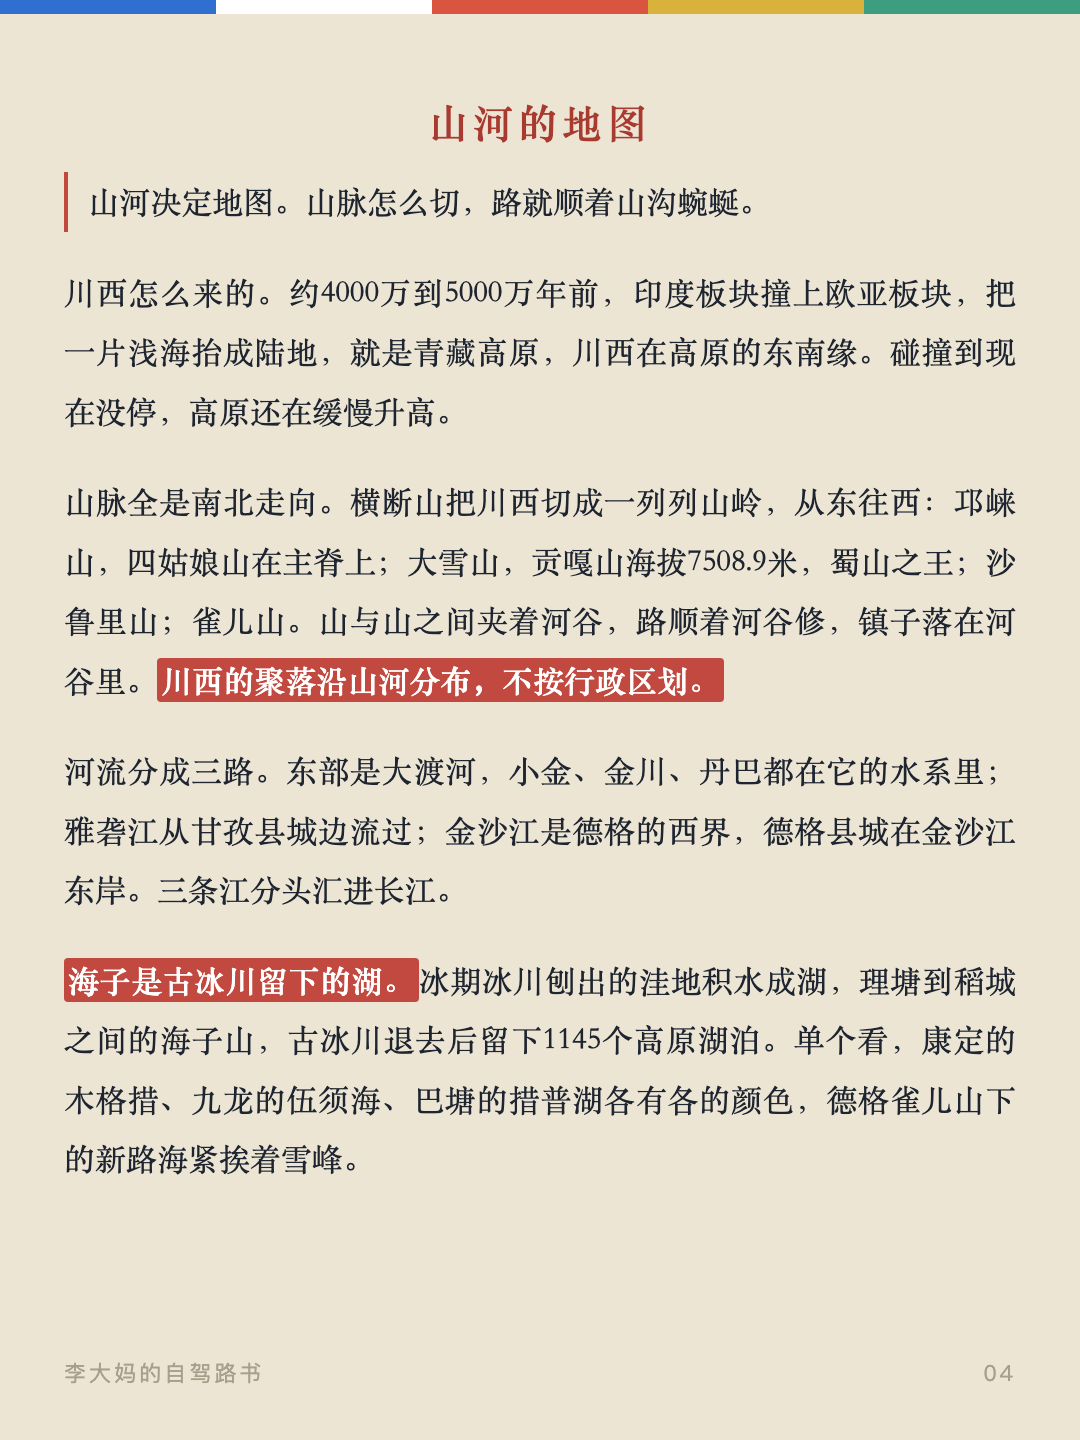
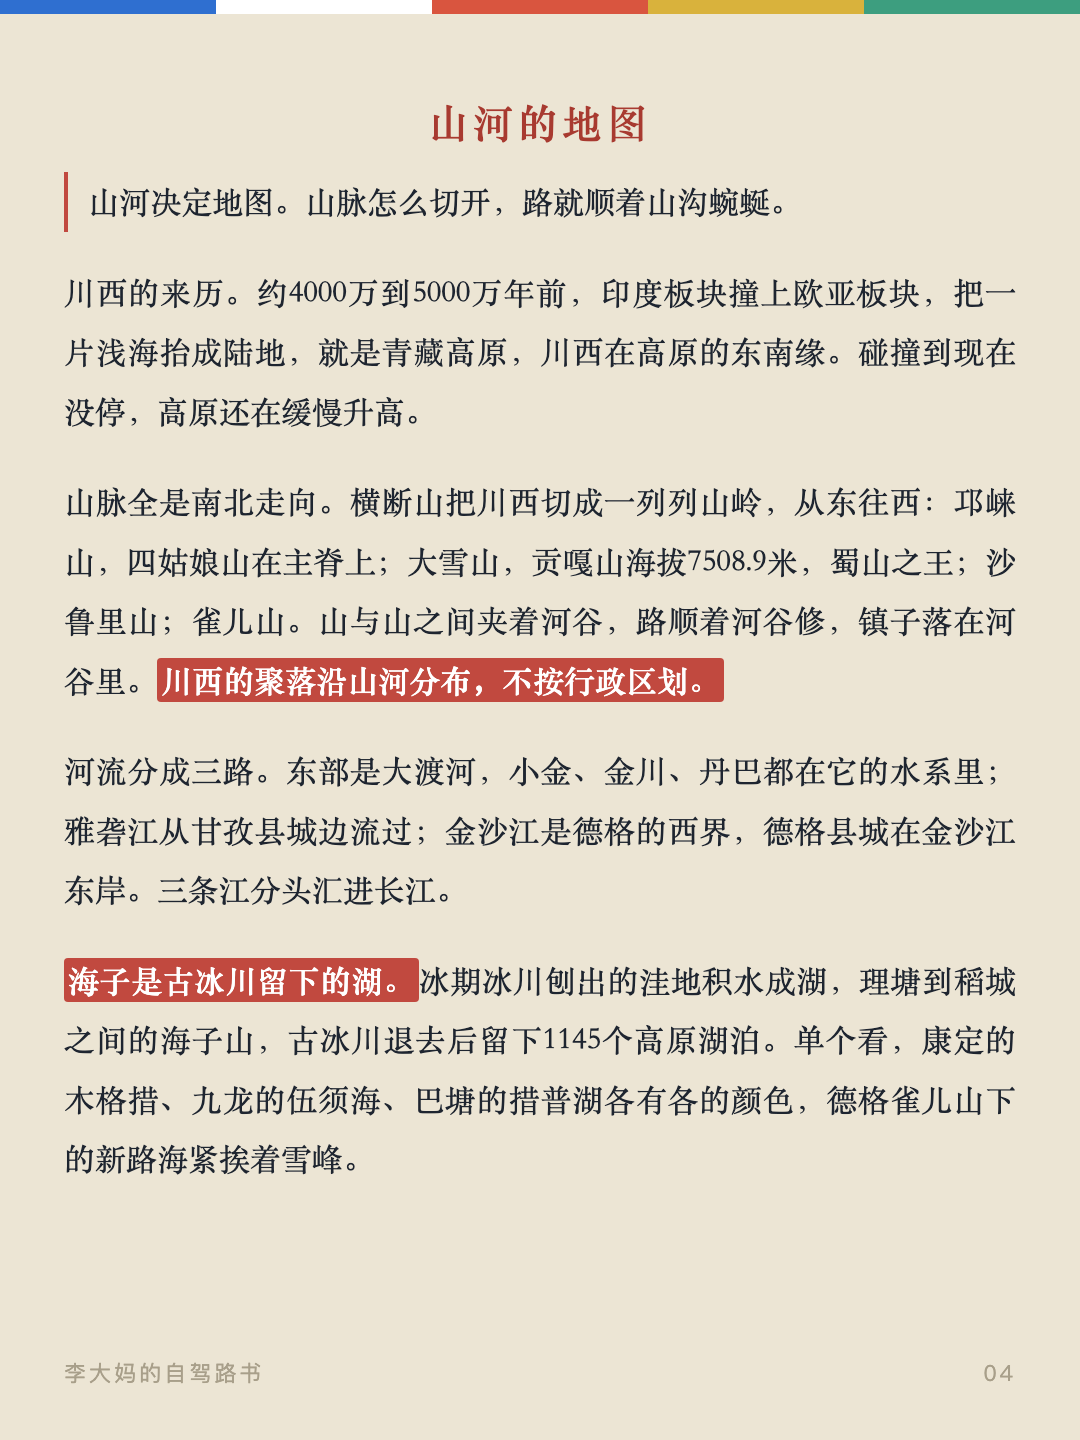
山河lead切字双字化；川西怎么来的改来历；海拔句改有所了解

Changed region(s): [[0.0611, 0.1875, 0.9472, 0.3125], [0.4278, 0.125, 0.7333, 0.1562]]

diff --git a/cards.html b/cards.html
@@ -127,9 +127,9 @@
 
 <div class="card" id="card2"><div class="flag" aria-hidden="true"><span style="background:var(--flag-blue)"></span><span style="background:var(--flag-white)"></span><span style="background:var(--flag-red)"></span><span style="background:var(--flag-yellow)"></span><span style="background:var(--flag-green)"></span></div><div class="card__inner"><h3>与人相处</h3><p><strong>牧民。</strong> 牛羊是牧民的主要家当。拍牧民和牲畜，先打招呼再举相机。牧场的帐篷和围栏，不随便进去。</p><p><strong>匠人。</strong> 进工坊先问能不能看，问手艺、问工序，匠人愿意聊就聊。工具和材料不上手碰。买现货，半成品和机压仿品不碰。</p><p><strong>僧侣。</strong> 称呼用“师父”或“上师”。进大殿脱帽、轻声、顺时针走，不拍照、不指佛像。法会时安静看，不打断、不围观起哄。</p><p><strong>司机和本地人。</strong> 见面一句“扎西德勒”，气氛就开了。问路、问价，态度客气，多数人都愿意答。本地人大多直接，不绕弯。</p><p><strong>买东西。</strong> 讲好价就照付，不反复缠价。看上了再还价，压完不买<span class="nowrap">最伤和气。</span></p><p><strong>拍照。</strong> 拍人先问，拍寺院内部和法会先看有没有禁令。相机镜头对着人的时候，先问一句，多数人会同意的。</p><div class="card__foot"><span>李大妈的自驾路书</span><span>02</span></div></div></div>
 
-<div class="card" id="card3"><div class="flag" aria-hidden="true"><span style="background:var(--flag-blue)"></span><span style="background:var(--flag-white)"></span><span style="background:var(--flag-red)"></span><span style="background:var(--flag-yellow)"></span><span style="background:var(--flag-green)"></span></div><div class="card__inner"><h2>高原的秩序</h2><p class="card__lead">海拔决定秩序。</p><p>进川西先对海拔有数。<strong>3000米是一道门槛</strong>，多数人的高反从这里开始。行程按海拔安排，不按景点安排：一天的路程控制在两三小时山路，下午留出空当看天，天气不对就提前收车。景点不会消失，路况和天气才是当天的变量。</p><p>窗口期。<strong>5到6月、9到10月中是全年最好走的时段</strong>。雨季6到8月以夜雨为主，白天多数能通行。冬季也能走，但救援半径长，一台车陷在无人垭口，代价远超省下的时间。</p><p>防高反。从低到高慢慢爬，头两天不在3500米以上过夜。典型信号是头痛、睡不着、没胃口，多数人两三天能适应。乙酰唑胺遵医嘱提前服用；头痛影响休息时，饭后服用布洛芬，多喝水。红景天不能降低高反发生率，只缓解症状。高原低血糖常见，头晕乏力冲杯糖水就能缓解。高原上血氧比平原低是常态，<strong>血氧掉到85%以下、人也不舒服的话，就往下撤</strong>，按需就医。</p><p>补给认准县城。<strong>进县城加满油</strong>，一离开县城就默认补给消失，当天去就得当天回，不在荒野过夜。离线地图出发前下好，<strong>自救物资备足</strong>。冬季自驾，车上常备防滑链。</p><div class="card__foot"><span>李大妈的自驾路书</span><span>03</span></div></div></div>
+<div class="card" id="card3"><div class="flag" aria-hidden="true"><span style="background:var(--flag-blue)"></span><span style="background:var(--flag-white)"></span><span style="background:var(--flag-red)"></span><span style="background:var(--flag-yellow)"></span><span style="background:var(--flag-green)"></span></div><div class="card__inner"><h2>高原的秩序</h2><p class="card__lead">海拔决定秩序。</p><p>进川西之前，需要先对海拔常识有所了解。<strong>3000米是一道门槛</strong>，多数人的高反从这里开始。行程按海拔安排，不按景点安排：一天的路程控制在两三小时山路，下午留出空当看天，天气不对就提前收车。景点不会消失，路况和天气才是当天的变量。</p><p>窗口期。<strong>5到6月、9到10月中是全年最好走的时段</strong>。雨季6到8月以夜雨为主，白天多数能通行。冬季也能走，但救援半径长，一台车陷在无人垭口，代价远超省下的时间。</p><p>防高反。从低到高慢慢爬，头两天不在3500米以上过夜。典型信号是头痛、睡不着、没胃口，多数人两三天能适应。乙酰唑胺遵医嘱提前服用；头痛影响休息时，饭后服用布洛芬，多喝水。红景天不能降低高反发生率，只缓解症状。高原低血糖常见，头晕乏力冲杯糖水就能缓解。高原上血氧比平原低是常态，<strong>血氧掉到85%以下、人也不舒服的话，就往下撤</strong>，按需就医。</p><p>补给认准县城。<strong>进县城加满油</strong>，一离开县城就默认补给消失，当天去就得当天回，不在荒野过夜。离线地图出发前下好，<strong>自救物资备足</strong>。冬季自驾，车上常备防滑链。</p><div class="card__foot"><span>李大妈的自驾路书</span><span>03</span></div></div></div>
 
-<div class="card" id="card4"><div class="flag" aria-hidden="true"><span style="background:var(--flag-blue)"></span><span style="background:var(--flag-white)"></span><span style="background:var(--flag-red)"></span><span style="background:var(--flag-yellow)"></span><span style="background:var(--flag-green)"></span></div><div class="card__inner"><h2>山河的地图</h2><p class="card__lead">山河决定地图。山脉怎么切，路就顺着山沟蜿蜒。</p><p>川西怎么来的。约4000万到5000万年前，印度板块撞上欧亚板块，把一片浅海抬成陆地，就是青藏高原，川西在高原的东南缘。碰撞到现在没停，高原还在缓慢升高。</p><p>山脉全是南北走向。横断山把川西切成一列列山岭，从东往西：邛崃山，四姑娘山在主脊上；大雪山，贡嘎山海拔7508.9米，蜀山之王；沙鲁里山；雀儿山。山与山之间夹着河谷，路顺着河谷修，镇子落在河谷里。<strong>川西的聚落沿山河分布，不按行政区划。</strong></p><p>河流分成三路。东部是大渡河，小金、金川、丹巴都在它的水系里；雅砻江从甘孜县城边流过；金沙江是德格的西界，德格县城在金沙江东岸。三条江分头汇进长江。</p><p><strong>海子是古冰川留下的湖。</strong>冰期冰川刨出的洼地积水成湖，理塘到稻城之间的海子山，古冰川退去后留下1145个高原湖泊。单个看，康定的木格措、九龙的伍须海、巴塘的措普湖各有各的颜色，德格雀儿山下的新路海紧挨着雪峰。</p><div class="card__foot"><span>李大妈的自驾路书</span><span>04</span></div></div></div>
+<div class="card" id="card4"><div class="flag" aria-hidden="true"><span style="background:var(--flag-blue)"></span><span style="background:var(--flag-white)"></span><span style="background:var(--flag-red)"></span><span style="background:var(--flag-yellow)"></span><span style="background:var(--flag-green)"></span></div><div class="card__inner"><h2>山河的地图</h2><p class="card__lead">山河决定地图。山脉怎么切开，路就顺着山沟蜿蜒。</p><p>川西的来历。约4000万到5000万年前，印度板块撞上欧亚板块，把一片浅海抬成陆地，就是青藏高原，川西在高原的东南缘。碰撞到现在没停，高原还在缓慢升高。</p><p>山脉全是南北走向。横断山把川西切成一列列山岭，从东往西：邛崃山，四姑娘山在主脊上；大雪山，贡嘎山海拔7508.9米，蜀山之王；沙鲁里山；雀儿山。山与山之间夹着河谷，路顺着河谷修，镇子落在河谷里。<strong>川西的聚落沿山河分布，不按行政区划。</strong></p><p>河流分成三路。东部是大渡河，小金、金川、丹巴都在它的水系里；雅砻江从甘孜县城边流过；金沙江是德格的西界，德格县城在金沙江东岸。三条江分头汇进长江。</p><p><strong>海子是古冰川留下的湖。</strong>冰期冰川刨出的洼地积水成湖，理塘到稻城之间的海子山，古冰川退去后留下1145个高原湖泊。单个看，康定的木格措、九龙的伍须海、巴塘的措普湖各有各的颜色，德格雀儿山下的新路海紧挨着雪峰。</p><div class="card__foot"><span>李大妈的自驾路书</span><span>04</span></div></div></div>
 
 <div class="card" id="card5"><div class="flag" aria-hidden="true"><span style="background:var(--flag-blue)"></span><span style="background:var(--flag-white)"></span><span style="background:var(--flag-red)"></span><span style="background:var(--flag-yellow)"></span><span style="background:var(--flag-green)"></span></div><div class="card__inner"><p>川西地震多，因为它在鲜水河断裂带上。这条断裂带从中部纵贯，历史上强震不断。对旅行者，最实在的是<strong>路况随时可能因塌方管制</strong>；很多陡崖和河谷的走向，就是断裂带运动的痕迹。</p><p>植被随海拔分层，从山谷到垭口一路变化。2500米以下是针阔混交林；2500到3500米是云杉冷杉的针叶林，高山杜鹃夹在林里；3500到4500米是高山灌丛和高山草甸，冬虫夏草、雪茶都长在这一层；4500米以上是流石滩，雪莲贴着碎石长。<strong>同一条路翻几座山，一天就能跨过四个<span class="nowrap">植被带</span>，换到别处得开几千公里。</strong></p><p>吃的东西也按海拔分布。青稞是高原的当家作物，炒熟磨成糌粑，拌上酥油茶捏成团，是藏人的日常主食；酥油茶用砖茶和酥油熬，热量高、解渴御寒，当地有<strong>“宁可三日无肉，不可一日无茶”</strong>的说法。牦牛在海拔3500米以上放养，肉干、火锅、炖汤都常见；血肠是待客的上等菜，牛血或羊血和肉丁灌进小肠煮熟。松茸这类菌子长在森林里，集中在金沙江、雅砻江、大渡河上中游的高山峡谷，夏秋雨后出得多，炖鸡、涮锅都常吃。这些不用刻意找，路边饭馆的菜单上就有。</p><div class="card__foot"><span>李大妈的自驾路书</span><span>05</span></div></div></div>
 

diff --git a/index.html b/index.html
@@ -223,7 +223,7 @@
     <section class="part" id="order">
       <div class="part__head"><span class="part__no" aria-hidden="true">一</span><h2>高原的秩序</h2></div>
       <p class="part__lead">海拔决定秩序。</p>
-      <p>进川西先对海拔有数。<strong>3000米是一道门槛</strong>，多数人的高反从这里开始。行程按海拔安排，不按景点安排：一天的路程控制在两三小时山路，下午留出空当看天，天气不对就提前收车。景点不会消失，路况和天气才是当天的变量。</p>
+      <p>进川西之前，需要先对海拔常识有所了解。<strong>3000米是一道门槛</strong>，多数人的高反从这里开始。行程按海拔安排，不按景点安排：一天的路程控制在两三小时山路，下午留出空当看天，天气不对就提前收车。景点不会消失，路况和天气才是当天的变量。</p>
       <p>窗口期。<strong>5到6月、9到10月中是全年最好走的时段</strong>。雨季6到8月以夜雨为主，白天多数能通行。冬季也能走，但救援半径长，一台车陷在无人垭口，代价远超省下的时间。</p>
       <p>防高反。从低到高慢慢爬，头两天不在3500米以上过夜。典型信号是头痛、睡不着、没胃口，多数人两三天能适应。乙酰唑胺遵医嘱提前服用；头痛影响休息时，饭后服用布洛芬，多喝水。红景天不能降低高反发生率，只缓解症状。高原低血糖常见，头晕乏力冲杯糖水就能缓解。高原上血氧比平原低是常态，<strong>血氧掉到85%以下、人也不舒服的话，就往下撤</strong>，按需就医。</p>
       <p>补给认准县城。<strong>进县城加满油</strong>，一离开县城就默认补给消失，当天去就得当天回，不在荒野过夜。离线地图出发前下好，<strong>自救物资备足</strong>。冬季自驾，车上常备防滑链。</p>
@@ -232,8 +232,8 @@
     <!-- 二、山河的地图 -->
     <section class="part" id="terrain">
       <div class="part__head"><span class="part__no" aria-hidden="true">二</span><h2>山河的地图</h2></div>
-      <p class="part__lead">山河决定地图。山脉怎么切，路就顺着山沟蜿蜒。</p>
-      <p>川西怎么来的。约4000万到5000万年前，印度板块撞上欧亚板块，把一片浅海抬成陆地，就是青藏高原，川西在高原的东南缘。碰撞到现在没停，高原还在缓慢升高。</p>
+      <p class="part__lead">山河决定地图。山脉怎么切开，路就顺着山沟蜿蜒。</p>
+      <p>川西的来历。约4000万到5000万年前，印度板块撞上欧亚板块，把一片浅海抬成陆地，就是青藏高原，川西在高原的东南缘。碰撞到现在没停，高原还在缓慢升高。</p>
       <p>山脉全是南北走向。横断山把川西切成一列列山岭，从东往西：邛崃山，四姑娘山在主脊上；大雪山，贡嘎山海拔7508.9米，蜀山之王；沙鲁里山；雀儿山。山与山之间夹着河谷，路顺着河谷修，镇子落在河谷里。<strong>川西的聚落沿山河分布，不按行政区划。</strong></p>
       <p>河流分成三路。东部是大渡河，小金、金川、丹巴都在它的水系里；雅砻江从甘孜县城边流过；金沙江是德格的西界，德格县城在金沙江东岸。三条江分头汇进长江。</p>
       <p><strong>海子是古冰川留下的湖。</strong>冰期冰川刨出的洼地积水成湖，理塘到稻城之间的海子山，古冰川退去后留下1145个高原湖泊。单个看，康定的木格措、九龙的伍须海、巴塘的措普湖各有各的颜色，德格雀儿山下的新路海紧挨着雪峰。</p>

diff --git a/gen_cards.py b/gen_cards.py
@@ -34,13 +34,13 @@ BODY_STREAM = [
   ('p', '<strong>拍照。</strong> 拍人先问，拍寺院内部和法会先看有没有禁令。相机镜头对着人的时候，先问一句，多数人会同意的。'),
   ('h2', '高原的秩序'),
   ('lead', '海拔决定秩序。'),
-  ('p', '进川西先对海拔有数。<strong>3000米是一道门槛</strong>，多数人的高反从这里开始。行程按海拔安排，不按景点安排：一天的路程控制在两三小时山路，下午留出空当看天，天气不对就提前收车。景点不会消失，路况和天气才是当天的变量。'),
+  ('p', '进川西之前，需要先对海拔常识有所了解。<strong>3000米是一道门槛</strong>，多数人的高反从这里开始。行程按海拔安排，不按景点安排：一天的路程控制在两三小时山路，下午留出空当看天，天气不对就提前收车。景点不会消失，路况和天气才是当天的变量。'),
   ('p', '窗口期。<strong>5到6月、9到10月中是全年最好走的时段</strong>。雨季6到8月以夜雨为主，白天多数能通行。冬季也能走，但救援半径长，一台车陷在无人垭口，代价远超省下的时间。'),
   ('p', '防高反。从低到高慢慢爬，头两天不在3500米以上过夜。典型信号是头痛、睡不着、没胃口，多数人两三天能适应。乙酰唑胺遵医嘱提前服用；头痛影响休息时，饭后服用布洛芬，多喝水。红景天不能降低高反发生率，只缓解症状。高原低血糖常见，头晕乏力冲杯糖水就能缓解。高原上血氧比平原低是常态，<strong>血氧掉到85%以下、人也不舒服的话，就往下撤</strong>，按需就医。'),
   ('p', '补给认准县城。<strong>进县城加满油</strong>，一离开县城就默认补给消失，当天去就得当天回，不在荒野过夜。离线地图出发前下好，<strong>自救物资备足</strong>。冬季自驾，车上常备防滑链。'),
   ('h2', '山河的地图'),
-  ('lead', '山河决定地图。山脉怎么切，路就顺着山沟蜿蜒。'),
-  ('p', '川西怎么来的。约4000万到5000万年前，印度板块撞上欧亚板块，把一片浅海抬成陆地，就是青藏高原，川西在高原的东南缘。碰撞到现在没停，高原还在缓慢升高。'),
+  ('lead', '山河决定地图。山脉怎么切开，路就顺着山沟蜿蜒。'),
+  ('p', '川西的来历。约4000万到5000万年前，印度板块撞上欧亚板块，把一片浅海抬成陆地，就是青藏高原，川西在高原的东南缘。碰撞到现在没停，高原还在缓慢升高。'),
   ('p', '山脉全是南北走向。横断山把川西切成一列列山岭，从东往西：邛崃山，四姑娘山在主脊上；大雪山，贡嘎山海拔7508.9米，蜀山之王；沙鲁里山；雀儿山。山与山之间夹着河谷，路顺着河谷修，镇子落在河谷里。<strong>川西的聚落沿山河分布，不按行政区划。</strong>'),
   ('p', '河流分成三路。东部是大渡河，小金、金川、丹巴都在它的水系里；雅砻江从甘孜县城边流过；金沙江是德格的西界，德格县城在金沙江东岸。三条江分头汇进长江。'),
   ('p', '<strong>海子是古冰川留下的湖。</strong>冰期冰川刨出的洼地积水成湖，理塘到稻城之间的海子山，古冰川退去后留下1145个高原湖泊。单个看，康定的木格措、九龙的伍须海、巴塘的措普湖各有各的颜色，德格雀儿山下的新路海紧挨着雪峰。'),
